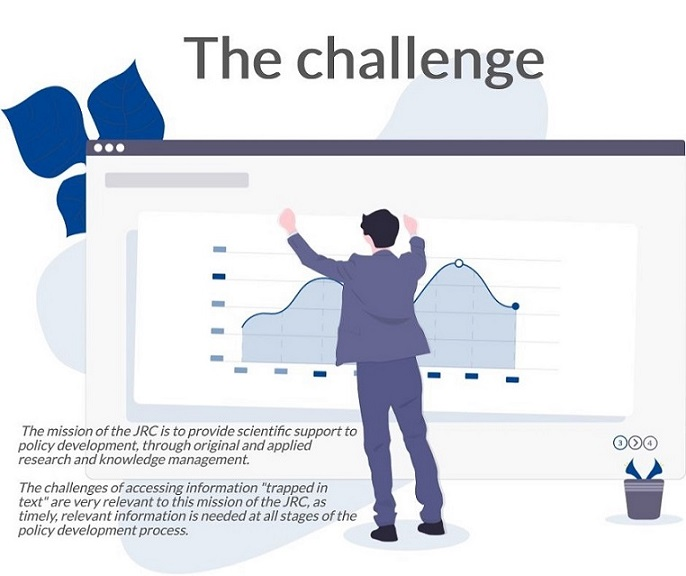
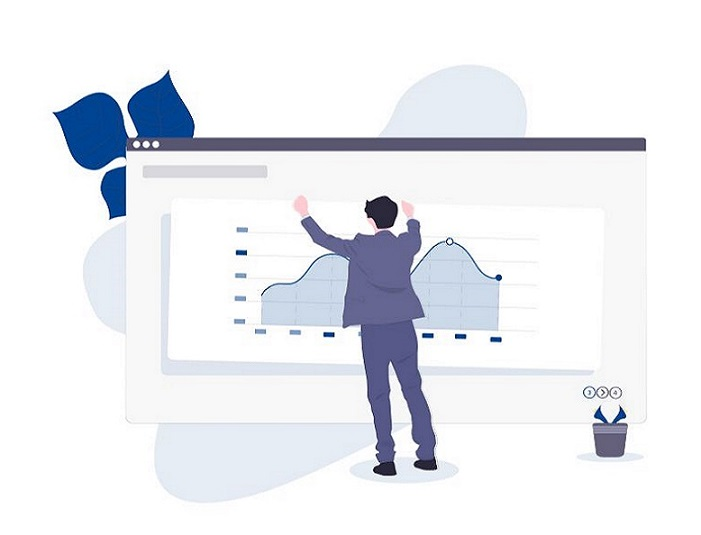
push of home page with fixed error and change of images WP

Changed region(s): [[0.0, 0.0598, 1.0, 1.0]]

diff --git a/seta-react/src/services/CarouselService.ts b/seta-react/src/services/CarouselService.ts
@@ -8,16 +8,22 @@ export class CarouselService {
             {
                 name: 'The Problem',
                 description:'Much of the world\'s data is textual – in large document archives, in scientific papers, in scattered websites, in social media. The information contained in text is invaluable and yet hard to access.',
-                image: Img1
+                image: Img1,
+                link: '',
+                descLink: ''
             },
             {
                 name: 'The Challenge',
                 description:'The mission of the JRC is to provide scientific support to policy development, through original and applied research and knowledge management. The challenges of accessing information "trapped in text" are very relevant to this mission of the JRC, as timely, relevant information is needed at all stages of the policy development process.',
-                image: Img2
+                image: Img2,
+                link: 'https://webgate.ec.europa.eu/connected/groups/jrc-strategy',
+                descLink: 'Learn More on JRC strategy 2030'
             },
             {   name: 'The solution: SeTA',
                 description:'To help overcome these challenges, the JRC has produced a new tool, SeTA – Semantic Text Analyser – which applies advanced text analysis techniques to large document collections, helping policy analysts to understand the concepts expressed in thousands of documents and to see in a visual manner the relationships between these concepts and their development over time.',
-                image: Img3
+                image: Img3,
+                link: 'https://publications.jrc.ec.europa.eu/repository/',
+                descLink: 'Learn More about SeTA inner works'
             }
         ];
     }

diff --git a/seta-react/src/pages/home/home.tsx b/seta-react/src/pages/home/home.tsx
@@ -2,6 +2,8 @@
 import React, { useState, useEffect } from 'react';
 import { Carousel } from 'primereact/carousel';
 import { CarouselService } from '../../services/CarouselService';
+import { Splitter, SplitterPanel } from 'primereact/splitter';
+import './style.css'; 
 
 const carousel = {
     index: 1,  //index which u want to display first
@@ -45,12 +47,23 @@ const Home = () => {
 
     const productTemplate = (product) => {
         return (
-            <div className="product-item">
-                <div className="product-item-content">
-                    <div className="mb-3">
-                        <img src={`${product.image}`} alt={product.name} className="product-image"/>
-                    </div>
-                </div>
+
+            <div className="card">
+                <h1>{product.name}</h1>
+                <Splitter  gutterSize={0} style={{height: '580px'}}>
+                    <SplitterPanel className="align-items-right" size={30}>
+                        <p style={{lineHeight: '1.5', whiteSpace: 'pre-wrap', fontSize: '1.3em', marginTop:'7em' }}>{product.description} {"\n"} <a href={product.link}>{product.descLink}</a></p>
+                    </SplitterPanel>
+                    <SplitterPanel size={70}>
+                            <div className="product-item">
+                                <div className="product-item-content">
+                                    <div className="mb-3">
+                                        <img src={`${product.image}`} alt={product.name} className="product-image"/>
+                                    </div>
+                                </div>
+                            </div>
+                    </SplitterPanel>
+                </Splitter>
             </div>
         );
     };

diff --git a/seta-react/src/pages/home/style.css b/seta-react/src/pages/home/style.css
@@ -1,6 +1,6 @@
-.mb-1{
+h1{
     font-family: system-ui, -apple-system, BlinkMacSystemFont, 'Segoe UI', Roboto, Oxygen, Ubuntu, Cantarell, 'Open Sans', 'Helvetica Neue', sans-serif;
     color: grey;
-    font-size: medium;
-    font-style: italic;
+    font-weight: bold;
 }
+
